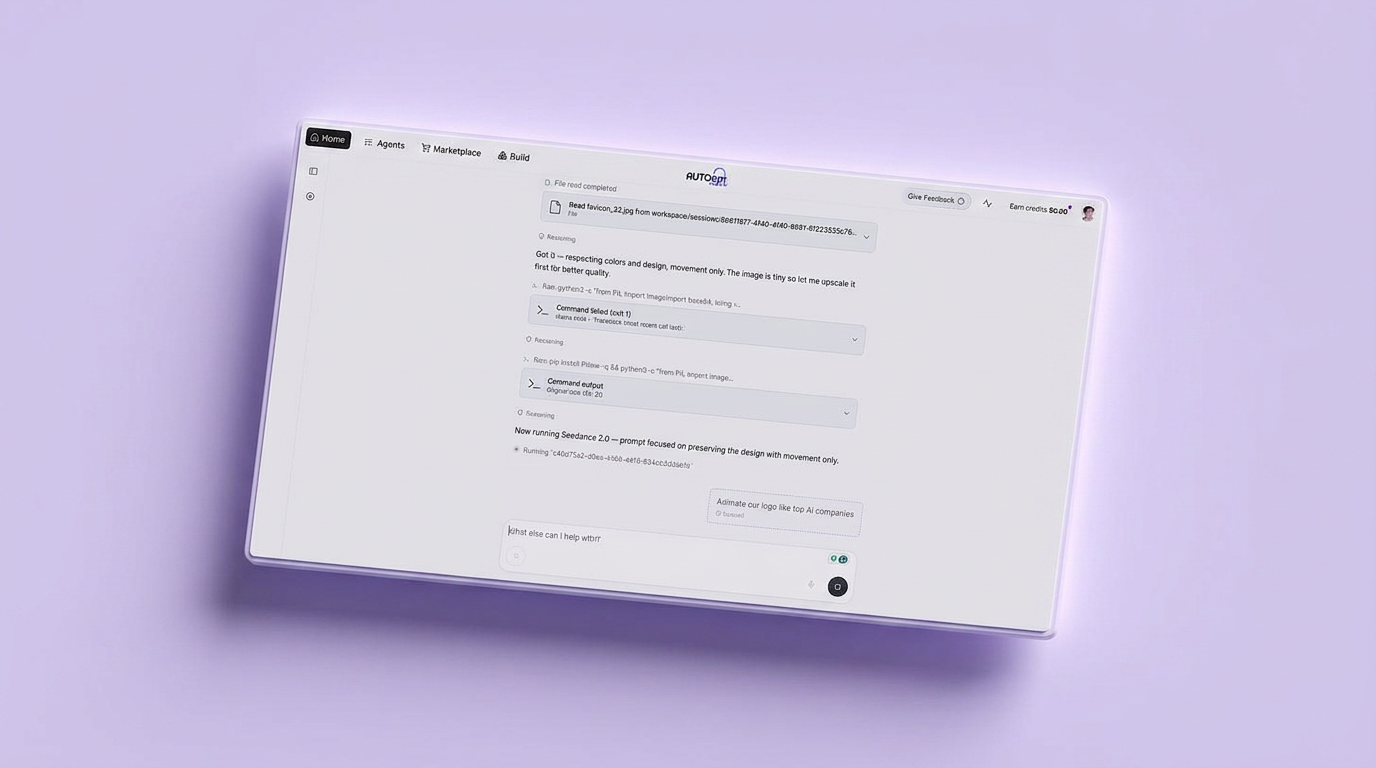
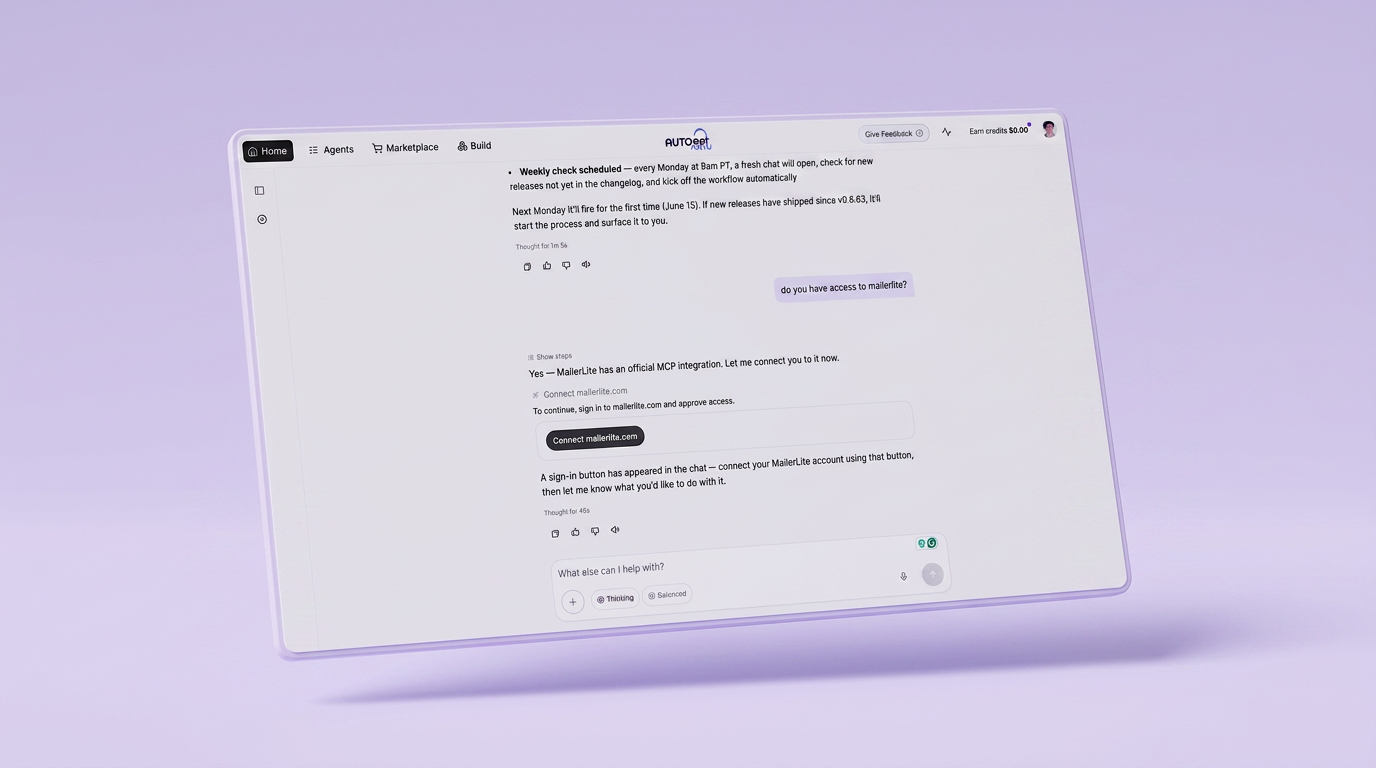
docs: swap message queuing for MCP auto-discovery, update AutoPilot hero image
- Replace message queuing bullet with auto-discover MCP integrations (#13117)
- New AutoPilot hero image from updated screenshot
- Update figcaption and alt text to match

Changed region(s): [[0.0938, 0.125, 0.9062, 1.0], [0.375, 0.4375, 0.6562, 0.6562], [0.5312, 0.6562, 0.625, 0.6875]]

diff --git a/docs/platform/changelog/may-7-june-10-2026.md b/docs/platform/changelog/may-7-june-10-2026.md
@@ -12,9 +12,9 @@ AutoPilot — your always-on AI co-pilot — just received its biggest set of up
 
 **Self-distilled skills registry** means AutoPilot now learns from its own work. After completing complex multi-step procedures, it automatically saves reusable recipes to a skills library — so it gets faster and more capable with every workflow you run together.
 
-**Message queuing** keeps things reliable: if you send a new task while AutoPilot is mid-run, it queues gracefully and picks it up next — nothing gets dropped.
+**Auto-discover MCP integrations** — when no native block exists for a tool or service, AutoPilot now automatically finds and connects the right MCP integration, so you never hit a dead end mid-workflow.
 
-<figure><img src="../.gitbook/assets/autopilot-upgrades-hero.png" alt="AutoPilot chat showing scheduling, skills registry, and message queuing"><figcaption><p>Native scheduling, a self-distilling skills registry, and message queuing in AutoPilot</p></figcaption></figure>
+<figure><img src="../.gitbook/assets/autopilot-upgrades-hero.png" alt="AutoPilot chat showing scheduling, skills registry, and MCP auto-discovery"><figcaption><p>Native scheduling, a self-distilling skills registry, and MCP auto-discovery in AutoPilot</p></figcaption></figure>
 
 ## A completely new first impression
 